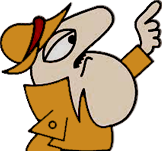
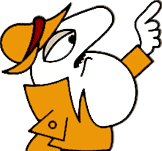
exchanges bg pngs; fixed no-data position

diff --git a/watchface/gts3/styles.js b/watchface/gts3/styles.js
@@ -272,8 +272,8 @@ export const WATCH_BATTERY_TEXT_AOD = {
 };
 
 export const BG_VALUE_NO_DATA_TEXT = {
-    x: px(138),
-    y: px(141),
+    x: px(260),
+    y: px(247),
     w: px(108),
     h: px(50),
     color: Colors.panther,
